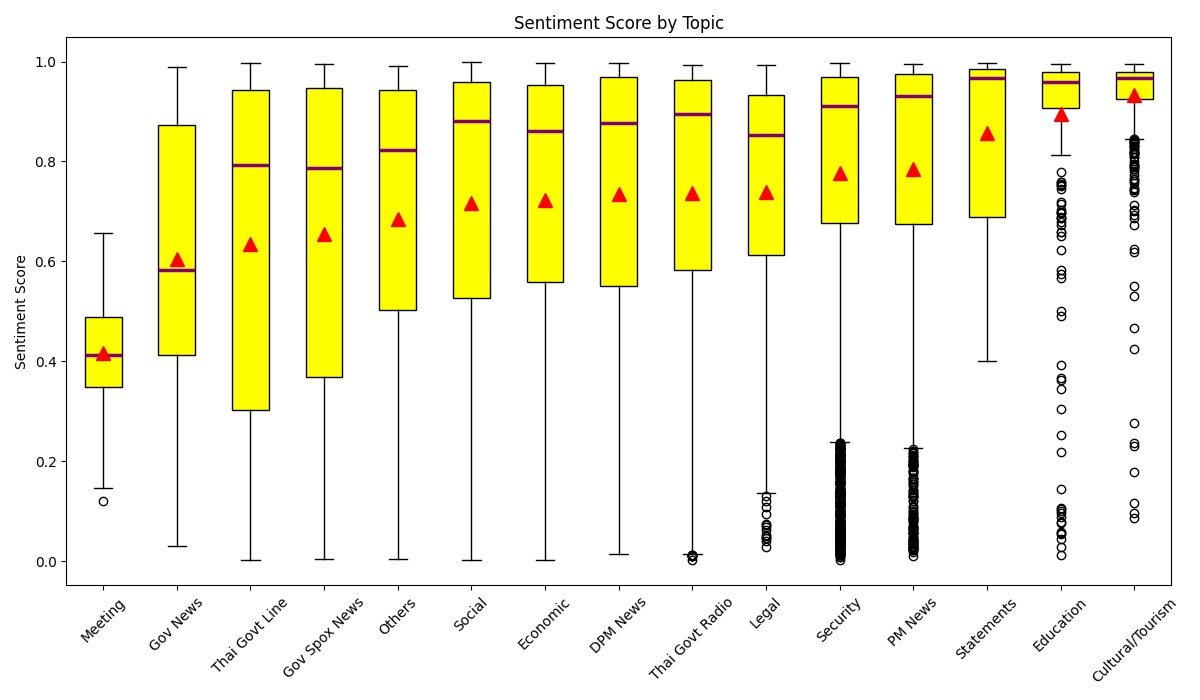
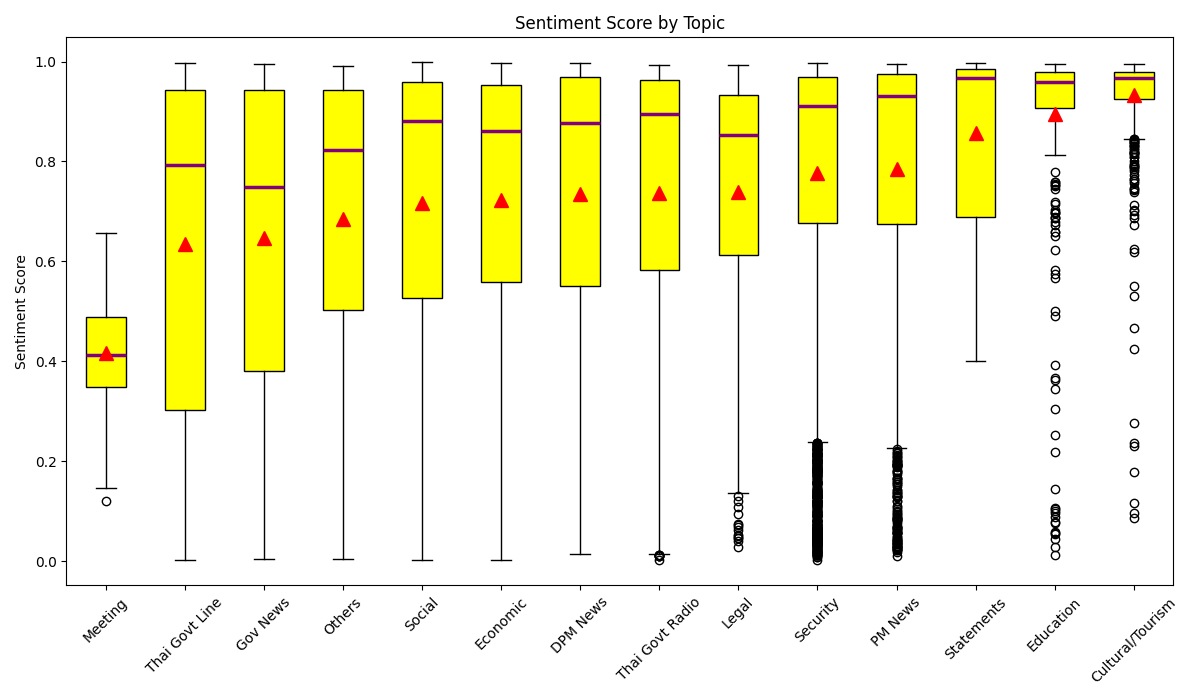
combine gov spox news and gov news

diff --git a/analysis/analysis.py b/analysis/analysis.py
@@ -114,18 +114,18 @@ def plot_frequency_and_avg_score_by_topic(mean_score=None):
     plt.savefig("analysis/frequency_by_topic.png")
     # plt.show()
 
-    # plt.figure(figsize=FIGSIZE)
-    # sns.barplot(data=df, x="topic", y="avg_score", order=df.sort_values("avg_score", ascending=True).topic)
-    # if mean_score:
-    #     plt.axhline(mean_score, color="red", linestyle="--", label="mean score")
-    #     plt.legend()
-    # plt.title("Average Score by Topic")
-    # plt.xlabel("")
-    # plt.ylabel("Average Score")
-    # plt.xticks(rotation=45)
-    # plt.tight_layout()
-    # plt.savefig("analysis/avg_score_by_topic.png")
-    # # plt.show()
+    plt.figure(figsize=FIGSIZE)
+    sns.barplot(data=df, x="topic", y="avg_score", order=df.sort_values("avg_score", ascending=True).topic)
+    if mean_score:
+        plt.axhline(mean_score, color="red", linestyle="--", label="mean score")
+        plt.legend()
+    plt.title("Average Score by Topic")
+    plt.xlabel("")
+    plt.ylabel("Average Score")
+    plt.xticks(rotation=45)
+    plt.tight_layout()
+    plt.savefig("analysis/avg_score_by_topic.png")
+    # plt.show()
 
 
 def plot_score_by_topic():
@@ -212,6 +212,7 @@ def get_sentiment_score_by_top_topic(n=5):
     plt.xticks(range(len(all_months)), all_months, rotation=45)
     plt.tight_layout()
     plt.savefig("analysis/sentiment_score_by_negative_topic_by_month.png")
+    # plt.show()
 
 
 def get_sentiment_score_frequent_topic(n=4):
@@ -237,9 +238,9 @@ def get_sentiment_score_frequent_topic(n=4):
 
 
 if __name__ == "__main__":
-    # stats = get_sentiment_score_distribution(plot_central_tendency="median")
-    # plot_sentiment_score()
-    # plot_frequency_and_avg_score_by_topic(mean_score=stats["mean"])
-    # get_sentiment_score_by_top_topic()
-    # get_sentiment_score_frequent_topic()
+    stats = get_sentiment_score_distribution(plot_central_tendency="median")
+    plot_sentiment_score()
+    plot_frequency_and_avg_score_by_topic(mean_score=stats["mean"])
+    get_sentiment_score_by_top_topic()
+    get_sentiment_score_frequent_topic()
     plot_score_by_topic()

diff --git a/analysis/conversion.py b/analysis/conversion.py
@@ -3,7 +3,7 @@ THAI_TO_ENG_TOPIC = {
     "Government News": "Government News",
     "Statements": "Statements",
     "": "Others",
-    "ข่าวคณะโฆษก": "Government Spokesperson News",
+    "ข่าวคณะโฆษก": "Government News",
     "ข่าวนายกรัฐมนตรี": "Prime Minister News",
     "ข่าวรองนายกรัฐมนตรี  รัฐมนตรีประจำสำนักนายกรัฐมนตรี": "Deputy Prime Minister News",
     "คำกล่าวสุนทรพจน์": "Statements",
@@ -50,7 +50,6 @@ THAI_TO_ENG_TOPIC = {
 FULLNAME_TO_ABBREVIAION = {
     "Prime Minister News": "PM News",
     "Deputy Prime Minister News": "DPM News",
-    "Government Spokesperson News": "Gov Spox News",
     "Government News": "Gov News",
     "Cabinet Meeting Synopsis": "Meeting",
     "Statements": "Statements",
